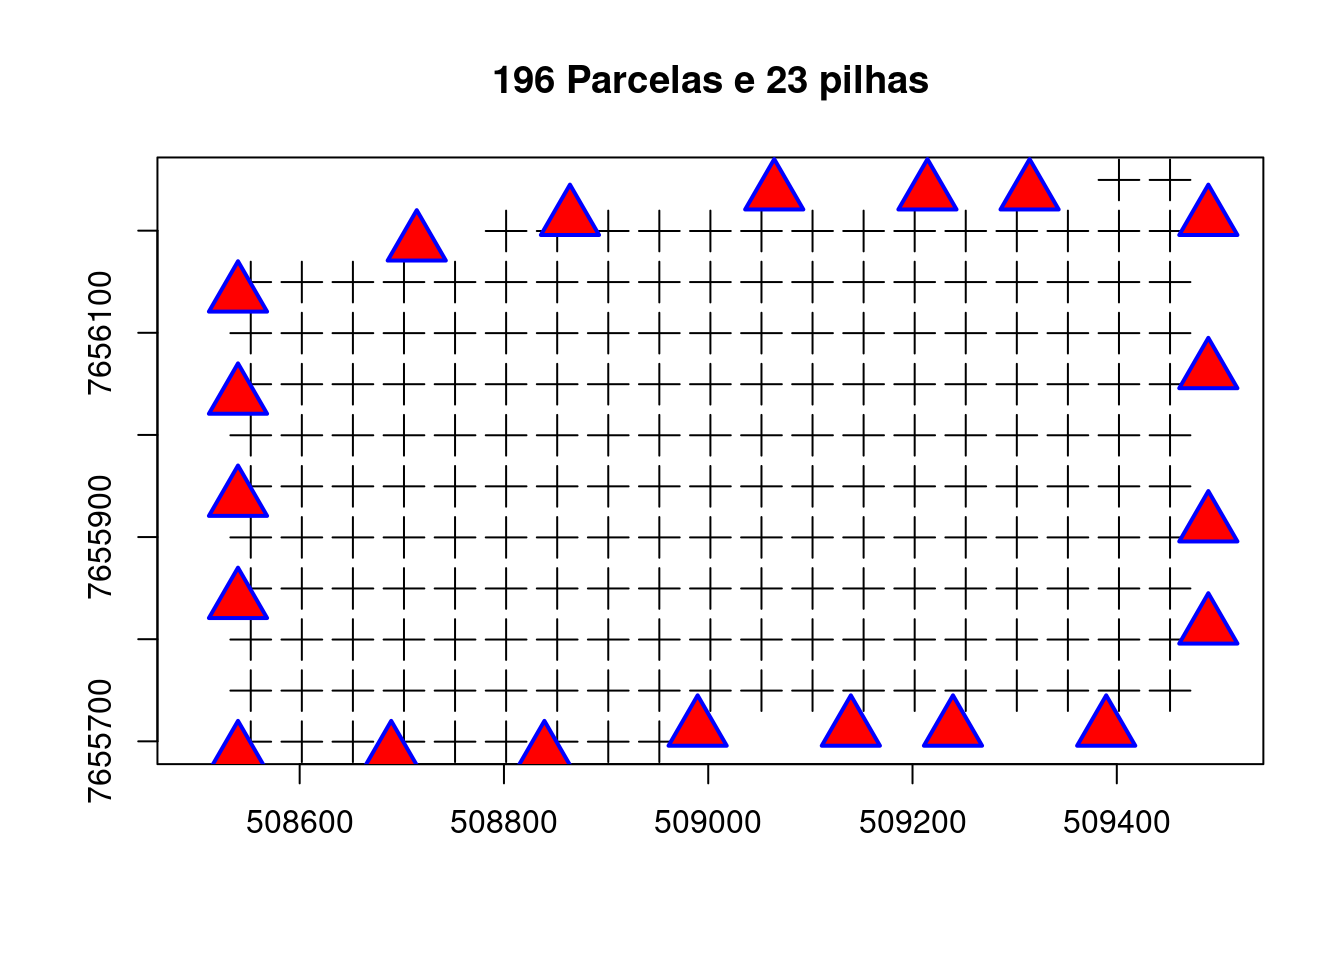
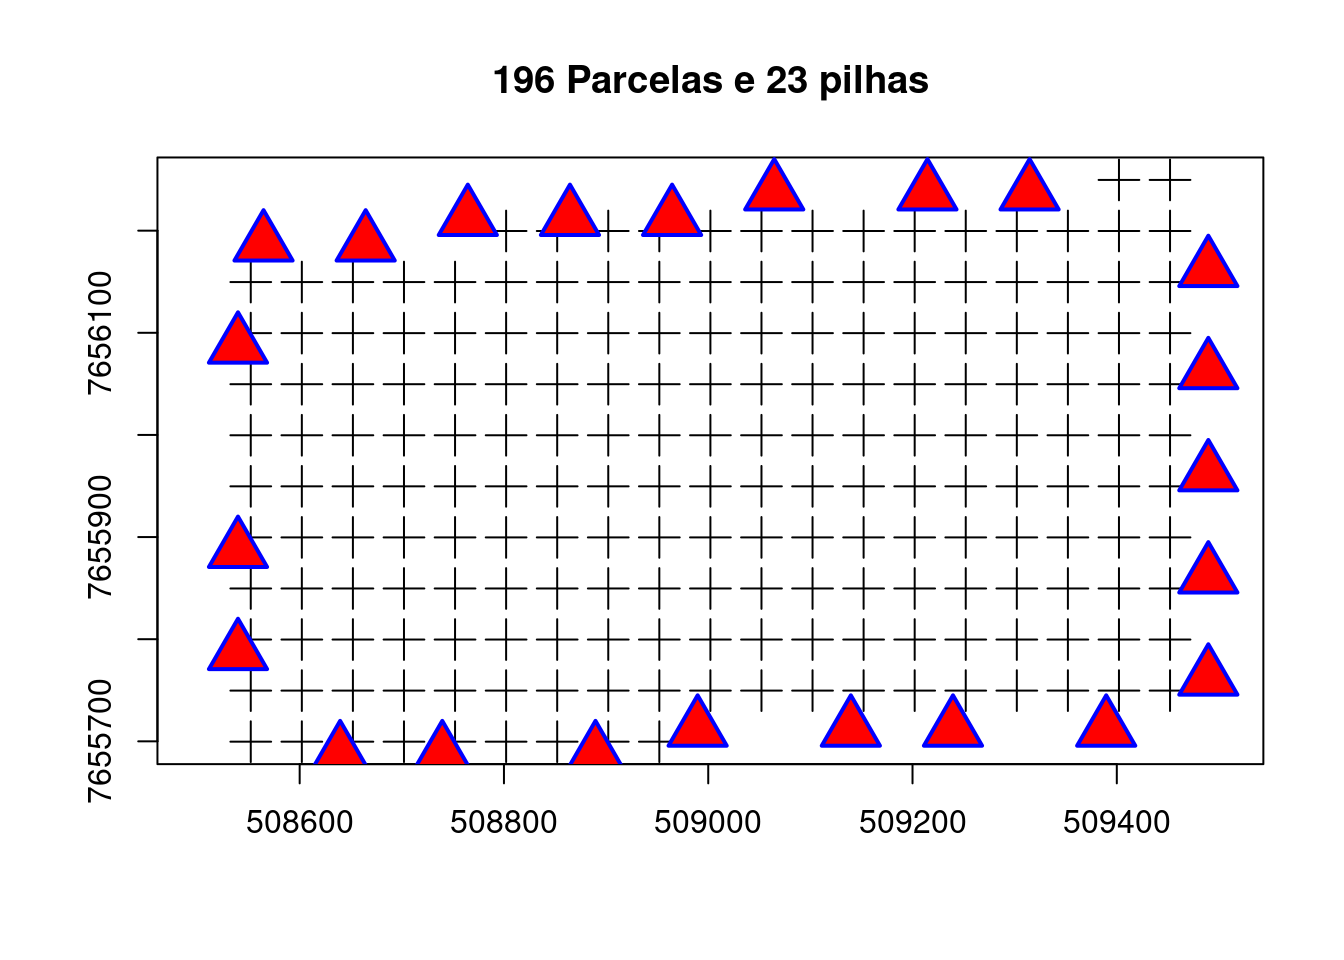
commit edit post pmediana

diff --git a/docs/otimização-do-custo-de-extração-por-arraste/index.html b/docs/otimização-do-custo-de-extração-por-arraste/index.html
@@ -13,7 +13,7 @@
 <meta name="Description" property="description" content="Página pessoal">
 
 
-<meta property="keywords" content ="geoprocessing, ggplot, r-markdown">
+<meta property="keywords" content ="geoprocessamento, ggplot, r-markdown">
 
 
 
@@ -926,7 +926,8 @@ um tempo menor.</p>
 </span></span><span style="display:flex;"><span><span style="color:#447fcf">plot</span>(<span style="color:#447fcf">st_geometry</span>(<span style="color:#447fcf">st_centroid</span>(grids)), pch = <span style="color:#3677a9">3</span>, col = <span style="color:#ed9d13">&#39;black&#39;</span>, cex= <span style="color:#3677a9">2</span>, axes = <span style="color:#6ab825;font-weight:bold">TRUE</span>,
 </span></span><span style="display:flex;"><span>     main = <span style="color:#ed9d13">&#34;196 Parcelas e 23 pilhas&#34;</span>)
 </span></span><span style="display:flex;"><span><span style="color:#447fcf">plot</span>(<span style="color:#447fcf">st_geometry</span>(pil), pch = <span style="color:#3677a9">24</span>, cex=<span style="color:#3677a9">3</span>, col=<span style="color:#ed9d13">&#34;blue&#34;</span>, bg=<span style="color:#ed9d13">&#34;red&#34;</span>, lwd=<span style="color:#3677a9">2</span>, add = <span style="color:#6ab825;font-weight:bold">TRUE</span> )
-</span></span></code></pre></div><p>Dado o novo cenário considerei a capacidade de 750 m³ por pilha e que a decisão tomada
+</span></span></code></pre></div><img src="https://viniciovcl.github.io/viniciovcl/otimiza%C3%A7%C3%A3o-do-custo-de-extra%C3%A7%C3%A3o-por-arraste/index_files/figure-html/reduz_res_probl_origin-1.png" width="672" />
+<p>Dado o novo cenário considerei a capacidade de 750 m³ por pilha e que a decisão tomada
 pela equipe de planejamento florestal foi de ativar 15 das 23 pilhas possíveis (valor de P = 15).</p>
 <div class="highlight"><pre tabindex="0" style="color:#d0d0d0;background-color:#202020;-moz-tab-size:4;-o-tab-size:4;tab-size:4;"><code class="language-r" data-lang="r"><span style="display:flex;"><span><span style="color:#999;font-style:italic"># Matiz de Custo</span>
 </span></span><span style="display:flex;"><span>
@@ -961,7 +962,7 @@ pela equipe de planejamento florestal foi de ativar 15 das 23 pilhas possíveis 
 </span></span><span style="display:flex;"><span>
 </span></span><span style="display:flex;"><span><span style="color:#999;font-style:italic"># cat(&#34;Status:&#34;,solver_status(m_pvalue),&#34;\n&#34;)</span>
 </span></span><span style="display:flex;"><span><span style="color:#999;font-style:italic"># cat(&#34;Objective:&#34;,objective_value(m_pvalue),&#34;\n&#34;)</span>
-</span></span></code></pre></div><h3 id="cria-o-mapa-para-a-solução">Cria o mapa para a solução</h3>
+</span></span></code></pre></div><h3 id="cria-o-mapa-da-solução">Cria o mapa da solução</h3>
 <div class="highlight"><pre tabindex="0" style="color:#d0d0d0;background-color:#202020;-moz-tab-size:4;-o-tab-size:4;tab-size:4;"><code class="language-r" data-lang="r"><span style="display:flex;"><span>matchs &lt;- <span style="color:#447fcf">get_solution</span>(m_pvalue,ship[i, j]) %&gt;%
 </span></span><span style="display:flex;"><span>  <span style="color:#447fcf">filter</span>(value &gt; <span style="color:#3677a9">0</span>) %&gt;% <span style="color:#447fcf">as.data.frame</span>()
 </span></span><span style="display:flex;"><span>
@@ -1034,7 +1035,7 @@ pela equipe de planejamento florestal foi de ativar 15 das 23 pilhas possíveis 
 </span></span><span style="display:flex;"><span>         axis.text = <span style="color:#447fcf">element_text</span>(size = <span style="color:#3677a9">5.5</span>),          
 </span></span><span style="display:flex;"><span>        ) +
 </span></span><span style="display:flex;"><span>  <span style="color:#447fcf">labs</span>(title = <span style="color:#ed9d13">&#34;Mapa de localização das pilhas &#34;</span>, 
-</span></span><span style="display:flex;"><span>       subtitle =  <span style="color:#ed9d13">&#34;p-mediana = 15&#34;</span>, 
+</span></span><span style="display:flex;"><span>       subtitle =  <span style="color:#ed9d13">&#34;P = 15&#34;</span>, 
 </span></span><span style="display:flex;"><span>       caption = <span style="color:#ed9d13">&#34;Mapa de localização da solução ótima encontrada para minimização do custo de extração por
 </span></span></span><span style="display:flex;"><span><span style="color:#ed9d13">       arraste usando o modelo da p-mediana. Atribui cada parcela do talhão para a pilha de menor distância
 </span></span></span><span style="display:flex;"><span><span style="color:#ed9d13">       a ser percorrida pela máquina, considerando p locais disponíveis para a instalação dos pátios.
@@ -1055,6 +1056,7 @@ pela equipe de planejamento florestal foi de ativar 15 das 23 pilhas possíveis 
 </span></span><span style="display:flex;"><span>  device = <span style="color:#ed9d13">&#34;png&#34;</span>
 </span></span><span style="display:flex;"><span>  )
 </span></span></code></pre></div><img src="./images/p_mediana_T67_post2.png" width="110%" style="display: block; margin: auto;" />
+<h5 id="relatório-do-solver">Relatório do solver</h5>
 <div class="highlight"><pre tabindex="0" style="color:#d0d0d0;background-color:#202020;-moz-tab-size:4;-o-tab-size:4;tab-size:4;"><code class="language-r" data-lang="r"><span style="display:flex;"><span>Starting Preprocessing...
 </span></span><span style="display:flex;"><span>Preprocessing finished...
 </span></span><span style="display:flex;"><span> 	 with no modifications...
@@ -1161,7 +1163,9 @@ pela equipe de planejamento florestal foi de ativar 15 das 23 pilhas possíveis 
 </span></span><span style="display:flex;"><span>===========================================================
 </span></span><span style="display:flex;"><span>Solution Found: Node <span style="color:#3677a9">0</span>, Level <span style="color:#3677a9">0</span>
 </span></span><span style="display:flex;"><span>Solution Cost: <span style="color:#3677a9">23942.0000000000</span>
-</span></span></code></pre></div><div class="highlight"><pre tabindex="0" style="color:#d0d0d0;background-color:#202020;-moz-tab-size:4;-o-tab-size:4;tab-size:4;"><code class="language-r" data-lang="r"><span style="display:flex;"><span>info = <span style="color:#447fcf">sessionInfo</span>()
+</span></span></code></pre></div><div class="highlight"><pre tabindex="0" style="color:#d0d0d0;background-color:#202020;-moz-tab-size:4;-o-tab-size:4;tab-size:4;"><code class="language-r" data-lang="r"><span style="display:flex;"><span><span style="color:#999;font-style:italic"># Ambiente de execução</span>
+</span></span><span style="display:flex;"><span>
+</span></span><span style="display:flex;"><span>info = <span style="color:#447fcf">sessionInfo</span>()
 </span></span><span style="display:flex;"><span>info
 </span></span></code></pre></div><pre tabindex="0"><code>## R version 4.4.1 (2024-06-14)
 ## Platform: x86_64-pc-linux-gnu
@@ -1239,7 +1243,7 @@ pela equipe de planejamento florestal foi de ativar 15 das 23 pilhas possíveis 
     Tags:
     
     <a class="inline-block mt-2 mr-2 border-none text-neutral-800 dark:text-neutral-200"
-       href="/viniciovcl/tags/geoprocessing">
+       href="/viniciovcl/tags/geoprocessamento">
         <span class="flex flex-row justify-start items-center
                      dark:bg-zinc-900 dark:hover:bg-zinc-700
                      hover:bg-zinc-300 bg-zinc-200
@@ -1249,7 +1253,7 @@ pela equipe de planejamento florestal foi de ativar 15 das 23 pilhas possíveis 
             
             <img class="h-4 mr-2 inline" src="https://viniciovcl.github.io/viniciovcl/images/tag_logo.svg"
                  alt="Logo of a tag: indicates that a tag item follows.">
-            geoprocessing
+            geoprocessamento
         </span>
     </a>
     

diff --git a/docs/tags/geoprocessamento/index.html b/docs/tags/geoprocessamento/index.html
@@ -2,17 +2,17 @@
 <html lang="en-us">
   <head>
     <meta charset="utf-8">
-<meta name="viewport" content="width=device-width,initial-scale=1.0,minimum-scale=1"><title>Tags - Vinicio Coelho Lima</title>
-<meta property="og:title" content="Tags - Vinicio Coelho Lima">
+<meta name="viewport" content="width=device-width,initial-scale=1.0,minimum-scale=1"><title>geoprocessamento - Vinicio Coelho Lima</title>
+<meta property="og:title" content="geoprocessamento - Vinicio Coelho Lima">
 <meta property="og:type" content="website">
 
 
 <meta property="og:image" content="">
 
-<meta property="og:url" content="https://viniciovcl.github.io/viniciovcl/tags/">
+<meta property="og:url" content="https://viniciovcl.github.io/viniciovcl/tags/geoprocessamento/">
 
-<meta property="og:description" content="A list of all the tags in the site. They are arranged in a word cloud">
-<meta name="Description" property="description" content="A list of all the tags in the site. They are arranged in a word cloud">
+<meta property="og:description" content="All articles tagged with  geoprocessamento">
+<meta name="Description" property="description" content="All articles tagged with  geoprocessamento">
 
 
 
@@ -116,155 +116,37 @@
                  leading-loose md:px-0 px-2 z-0"
           role="main">
     
-    <p>All the tags in the website, weighted by their frequency.</p>
-  <hr>
-  <div>
-    <h2>Tags</h2>
+  <br>
+  <a href="/tags/"><b>&#8592; Browse all tags</b></a>
+  <div class="list">
+      <h1 class="list-title">geoprocessamento</h1>
+      
+        <h2>Post</h2>
+        
+          <div class="mb-12 lg:mx-8">
+    <a href="https://viniciovcl.github.io/viniciovcl/otimiza%C3%A7%C3%A3o-do-custo-de-extra%C3%A7%C3%A3o-por-arraste/" itemprop="url"
+       class="grid grid-cols-list-item items-center pb-2 border-b-2
+             text-black dark:text-zinc-300 hover:text-neutral-500
+             dark:border-zinc-600
+             hover:dark:border-zinc-300
+             hover:dark:text-zinc-100">
+        
+            <h3 itemprop="name" class="border-none pb-0 my-6 col-span-2">Otimização do custo de extração por arraste</h3>
+        
+        
+            <div class="list-item-date col-start-4 text-right text-neutral-600 dark:text-neutral-400" itemprop="datePublished"
+                content="2024-11-12T00:00:00Z">
+                2024.11.12
+            </div>
+        
+    </a>
     
-    
-    
-    
-    
-    
-    
-    
-    
-    <ul class="leading-6 text-center">
+    <meta itemprop="author" content="viniciovcl">
+</div>
+
         
-            
-            
-            
-            
-            
-        <li class="list-none inline-block pr-2 pb-2">
-            <a href="https://viniciovcl.github.io/viniciovcl/tags/changedetection"
-               class="font-bold text-neutral-800 dark:text-neutral-200"
-               style="font-size:1rem">changedetection
-            </a>
-        </li>
-        
-            
-            
-            
-            
-            
-        <li class="list-none inline-block pr-2 pb-2">
-            <a href="https://viniciovcl.github.io/viniciovcl/tags/data-cube"
-               class="font-bold text-neutral-800 dark:text-neutral-200"
-               style="font-size:1rem">data-cube
-            </a>
-        </li>
-        
-            
-            
-            
-            
-            
-        <li class="list-none inline-block pr-2 pb-2">
-            <a href="https://viniciovcl.github.io/viniciovcl/tags/gdalcubes"
-               class="font-bold text-neutral-800 dark:text-neutral-200"
-               style="font-size:1rem">gdalcubes
-            </a>
-        </li>
-        
-            
-            
-            
-            
-            
-        <li class="list-none inline-block pr-2 pb-2">
-            <a href="https://viniciovcl.github.io/viniciovcl/tags/geoprocessamento"
-               class="font-bold text-neutral-800 dark:text-neutral-200"
-               style="font-size:1rem">geoprocessamento
-            </a>
-        </li>
-        
-            
-            
-            
-            
-            
-        <li class="list-none inline-block pr-2 pb-2">
-            <a href="https://viniciovcl.github.io/viniciovcl/tags/ggplot"
-               class="font-bold text-neutral-800 dark:text-neutral-200"
-               style="font-size:2.1356735564286233rem">ggplot
-            </a>
-        </li>
-        
-            
-            
-            
-            
-            
-        <li class="list-none inline-block pr-2 pb-2">
-            <a href="https://viniciovcl.github.io/viniciovcl/tags/image-processing"
-               class="font-bold text-neutral-800 dark:text-neutral-200"
-               style="font-size:1rem">image-processing
-            </a>
-        </li>
-        
-            
-            
-            
-            
-            
-        <li class="list-none inline-block pr-2 pb-2">
-            <a href="https://viniciovcl.github.io/viniciovcl/tags/linear-programming"
-               class="font-bold text-neutral-800 dark:text-neutral-200"
-               style="font-size:1rem">linear-programming
-            </a>
-        </li>
-        
-            
-            
-            
-            
-            
-        <li class="list-none inline-block pr-2 pb-2">
-            <a href="https://viniciovcl.github.io/viniciovcl/tags/lpsolve"
-               class="font-bold text-neutral-800 dark:text-neutral-200"
-               style="font-size:1rem">lpsolve
-            </a>
-        </li>
-        
-            
-            
-            
-            
-            
-        <li class="list-none inline-block pr-2 pb-2">
-            <a href="https://viniciovcl.github.io/viniciovcl/tags/modeling"
-               class="font-bold text-neutral-800 dark:text-neutral-200"
-               style="font-size:1rem">modeling
-            </a>
-        </li>
-        
-            
-            
-            
-            
-            
-        <li class="list-none inline-block pr-2 pb-2">
-            <a href="https://viniciovcl.github.io/viniciovcl/tags/r-markdown"
-               class="font-bold text-neutral-800 dark:text-neutral-200"
-               style="font-size:2.1356735564286233rem">r-markdown
-            </a>
-        </li>
-        
-            
-            
-            
-            
-            
-        <li class="list-none inline-block pr-2 pb-2">
-            <a href="https://viniciovcl.github.io/viniciovcl/tags/time-series"
-               class="font-bold text-neutral-800 dark:text-neutral-200"
-               style="font-size:1rem">time-series
-            </a>
-        </li>
-        
-    </ul>
-    
+        <hr>
+      
   </div>
 
     </main>

diff --git a/content/post/2024-11-12-otimizacaodo-custo-de-extracao-por-arraste/index.md b/content/post/2024-11-12-otimizacaodo-custo-de-extracao-por-arraste/index.md
@@ -3,7 +3,7 @@ title: "Otimização do custo de extração por arraste"
 author: "Vinicio C. Lima"
 date: 2024-11-12
 categories: ["R"]
-tags: ["geoprocessing", "ggplot", "r-markdown"]
+tags: ["geoprocessamento", "ggplot", "r-markdown"]
 output:
   blogdown::html_page:
     toc: true
@@ -1061,6 +1061,8 @@ plot(st_geometry(st_centroid(grids)), pch = 3, col = 'black', cex= 2, axes = TRU
 plot(st_geometry(pil), pch = 24, cex=3, col="blue", bg="red", lwd=2, add = TRUE )
 ```
 
+<img src="{{< blogdown/postref >}}index_files/figure-html/reduz_res_probl_origin-1.png" width="672" />
+
 
 
 Dado o novo cenário considerei a capacidade de 750 m³ por pilha e que a decisão tomada
@@ -1106,7 +1108,7 @@ time.taken <- end.time - start.time
 
 
 
-### Cria o mapa para a solução
+### Cria o mapa da solução
 
 
 
@@ -1190,7 +1192,7 @@ tal_67 =
          axis.text = element_text(size = 5.5),          
         ) +
   labs(title = "Mapa de localização das pilhas ", 
-       subtitle =  "p-mediana = 15", 
+       subtitle =  "P = 15", 
        caption = "Mapa de localização da solução ótima encontrada para minimização do custo de extração por
        arraste usando o modelo da p-mediana. Atribui cada parcela do talhão para a pilha de menor distância
        a ser percorrida pela máquina, considerando p locais disponíveis para a instalação dos pátios.
@@ -1217,6 +1219,7 @@ ggsave(
 <img src="./images/p_mediana_T67_post2.png" width="110%" style="display: block; margin: auto;" />
 
 
+##### Relatório do solver 
 
 
 ```r
@@ -1331,8 +1334,9 @@ Solution Cost: 23942.0000000000
 
 
 
-
 ```r
+# Ambiente de execução
+
 info = sessionInfo()
 info
 ```
